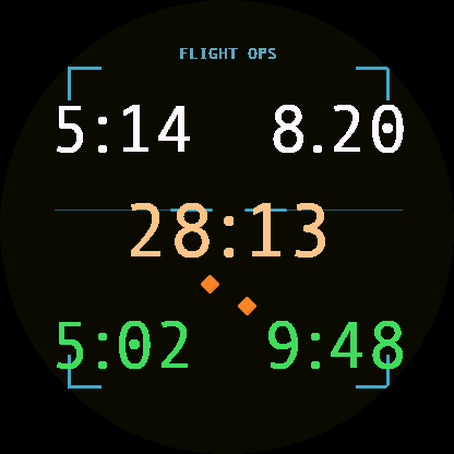
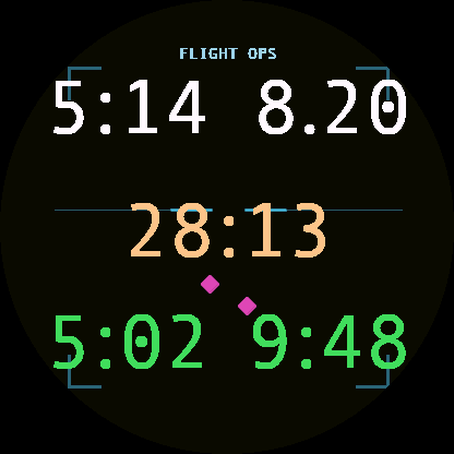
release prep v0.1.4: refresh listing assets (#36)
- CHANGELOG.md: add [0.1.4] (5-field 60pt redesign — bigger uniform values,
  edge positioning, hours-prefix for long times, retuned decorations).
- store/description.txt: 0.1.4 "What's changed" entry. No ">" chars.
- store/screenshots/ (all 8, preview + hero) recaptured on fr965 at the new
  60pt look, sample pose (5:14 / 8.20 / 28:13 / 5:02 / 9:48); hero.png rebuilt.

Gate for tools/release.sh v0.1.4 (both CHANGELOG + description carry 0.1.4).

diff --git a/CHANGELOG.md b/CHANGELOG.md
@@ -10,6 +10,19 @@ There is no version field in the Connect IQ manifest; the git tag is the version
 
 ## [Unreleased]
 
+## [0.1.4] - 2026-07-18
+
+- Bigger, bolder 5-field default: every field now renders at a large uniform
+  size (up from the smaller corner values) and is pushed to the screen edges for
+  maximum legibility — the fix for values being too small on smaller watches.
+- Long elapsed/lap times past an hour keep the minutes:seconds full-size with a
+  smaller hours prefix (e.g. `1:23:45`) instead of shrinking the whole value;
+  wide values (e.g. distance past 100) shrink only as much as needed to fit.
+- Refreshed per-theme detailing: dimmed background framing (reticles, octagon,
+  wall striping) so the numbers stand out, and new contrasting accent pips
+  (Cockpit magenta, Bridge cyan, Phosphor magenta/orange). Still requests no
+  permissions.
+
 ## [0.1.3] - 2026-07-09
 
 - Configurable fields: pick any of 17 metrics (or Off) for each of the five
